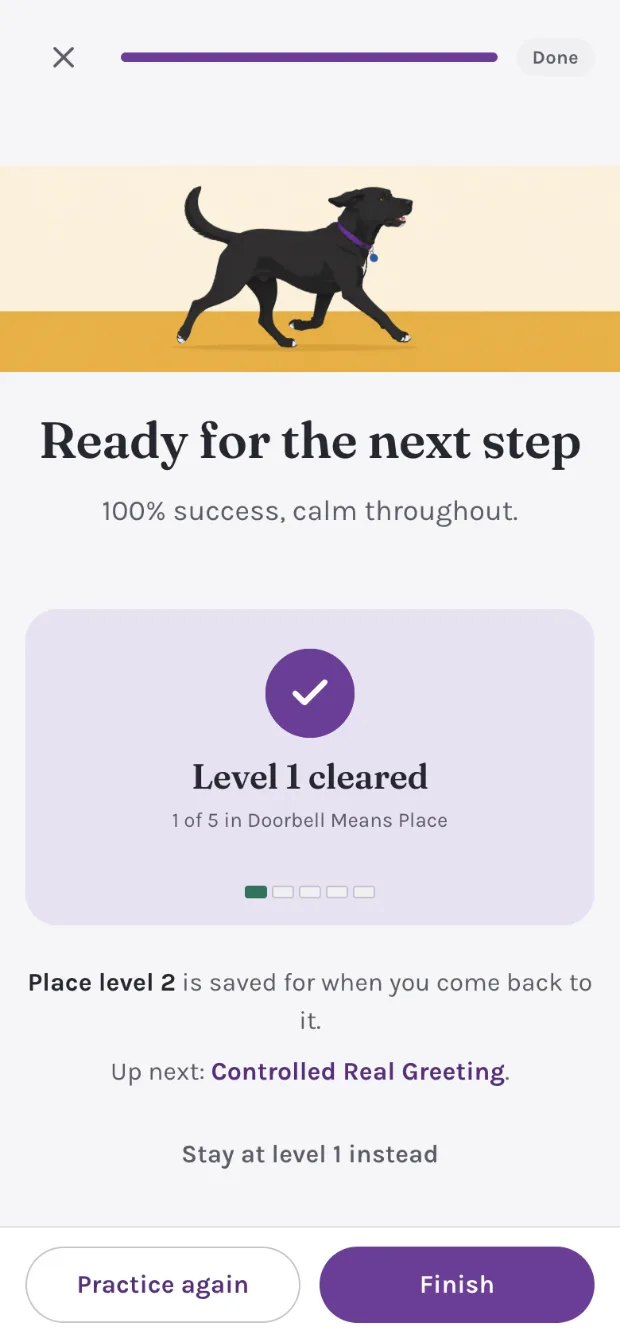
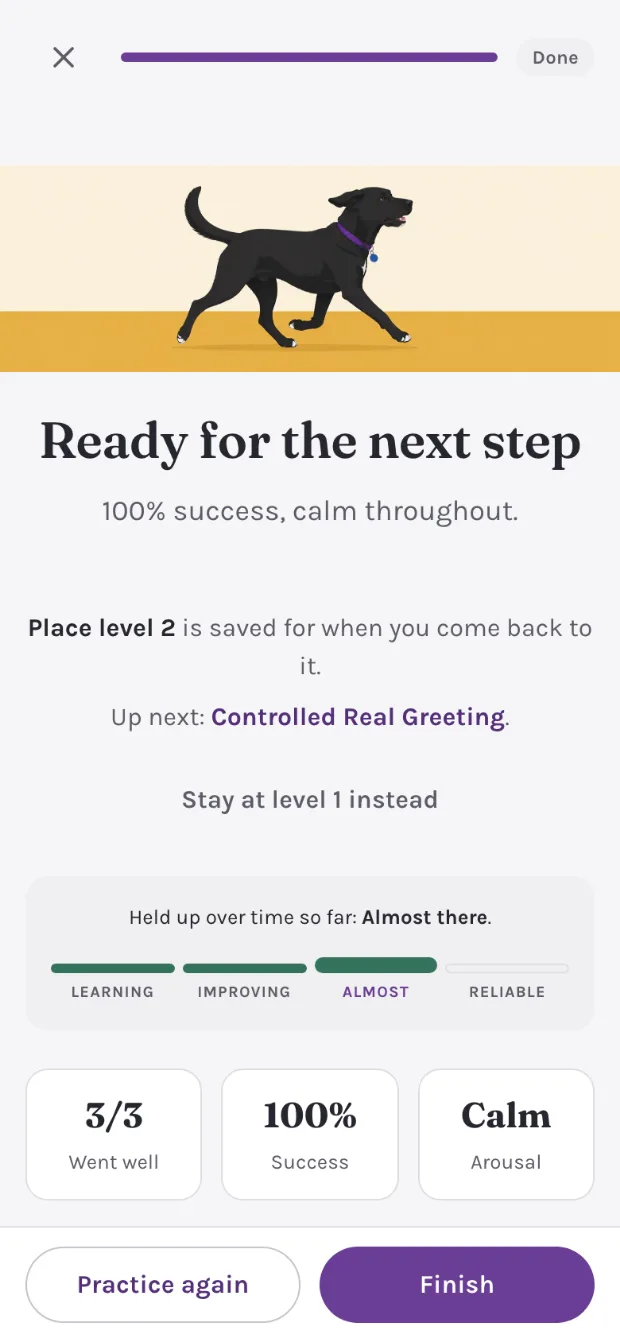
Lucy Learns's done screen recaptured, and its alt text says what the screen now shows: the next level saved, the next activity queued and the Almost there ladder, where it used to name a "Level 1 cleared" seal the demo run no longer reaches. lucy-learns-3 to ?v=9 on both pages

diff --git a/case-study/lucy-learns.html b/case-study/lucy-learns.html
@@ -284,8 +284,8 @@
             </li>
             <li class="build-flow-step">
               <div class="build-phone">
-                <img src="../img/products/lucy-learns-3.webp?v=8" width="620" height="1342" decoding="async"
-                     alt="End of session: Ready for the next step, 100% success calm throughout, Lucy trotting across a gold field. Level 1 cleared, 1 of 5 in Doorbell Means Place." />
+                <img src="../img/products/lucy-learns-3.webp?v=9" width="620" height="1342" decoding="async"
+                     alt="End of session: Ready for the next step, 100% success calm throughout, Lucy trotting across a gold field. Place level 2 is saved, Controlled Real Greeting is up next, and the level reads Almost there over 3 of 3 went well." />
               </div>
               <p class="build-flow-cap"><span>03</span> Finish on a win</p>
             </li>

diff --git a/engagement/working-product-prototype.html b/engagement/working-product-prototype.html
@@ -419,8 +419,8 @@
               </li>
               <li>
                 <a class="mini-phone" href="../case-study/lucy-learns.html">
-                  <img src="../img/products/lucy-learns-3.webp?v=8" width="620" height="1342" loading="lazy" decoding="async"
-                       alt="End of session: Level 1 cleared, ready for the next step." />
+                  <img src="../img/products/lucy-learns-3.webp?v=9" width="620" height="1342" loading="lazy" decoding="async"
+                       alt="End of session: ready for the next step, with the next level saved and the next activity queued." />
                 </a>
                 <p class="mini-cap"><span>03</span> End on a win, next one queued</p>
               </li>
